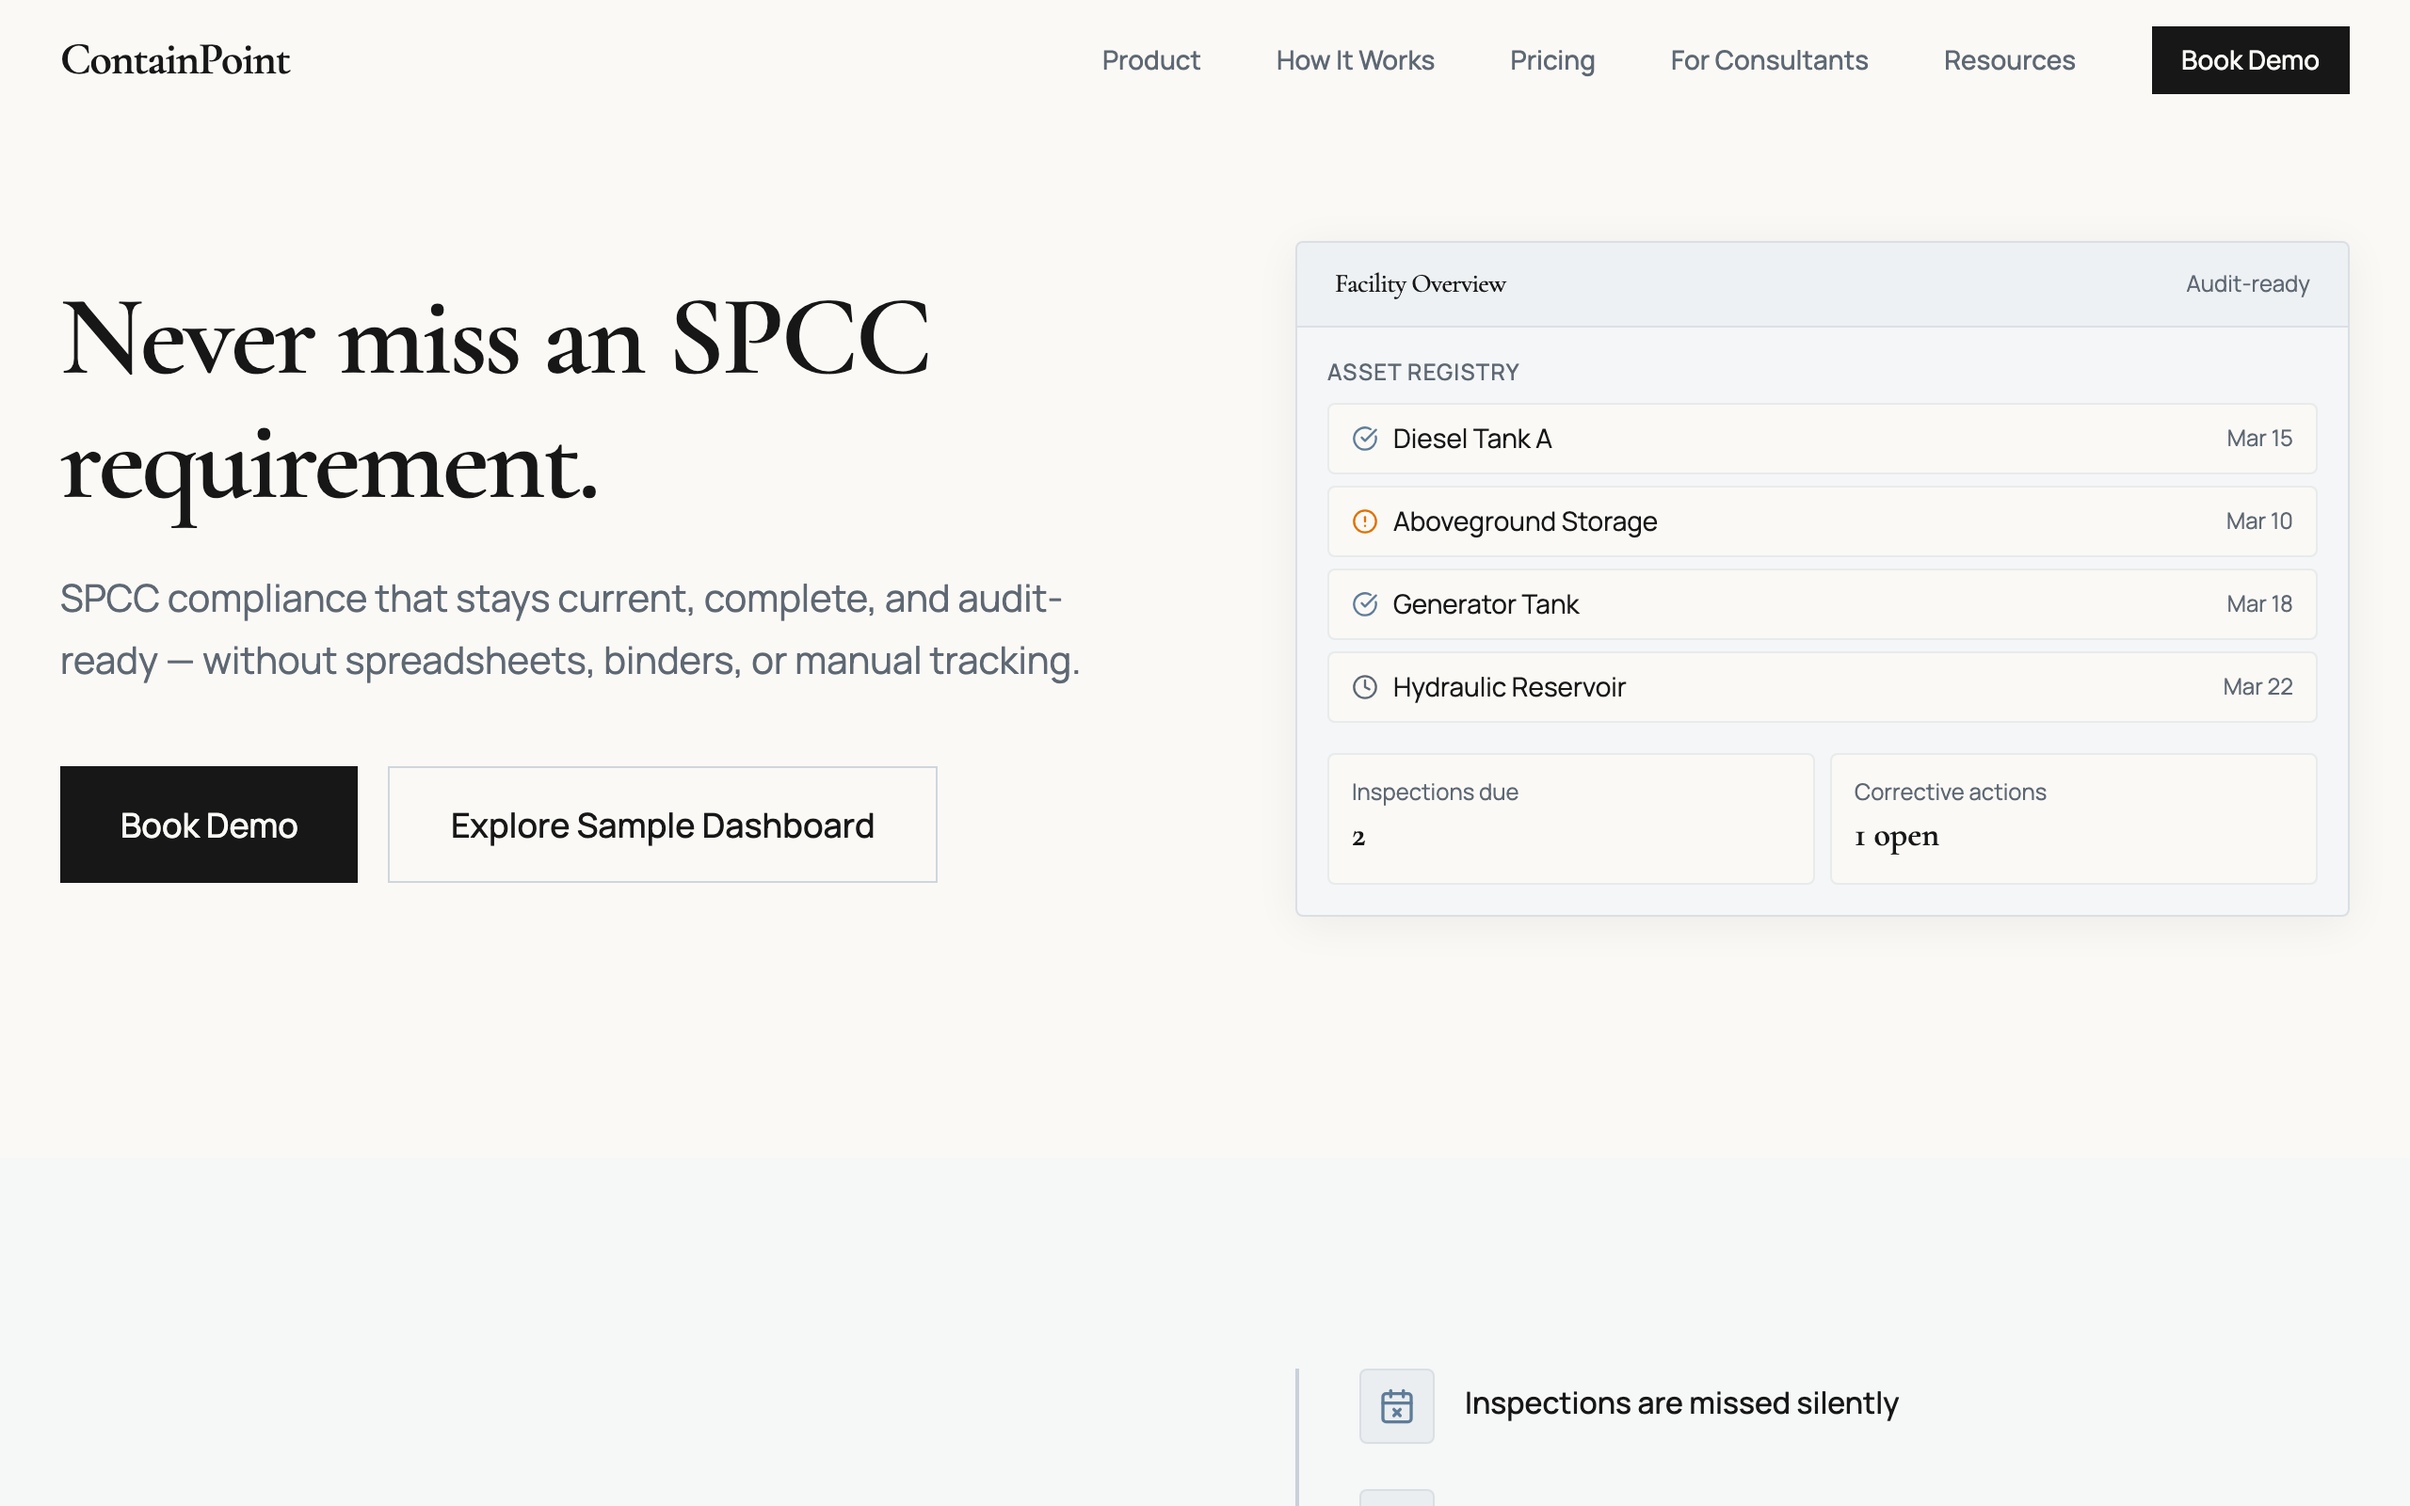
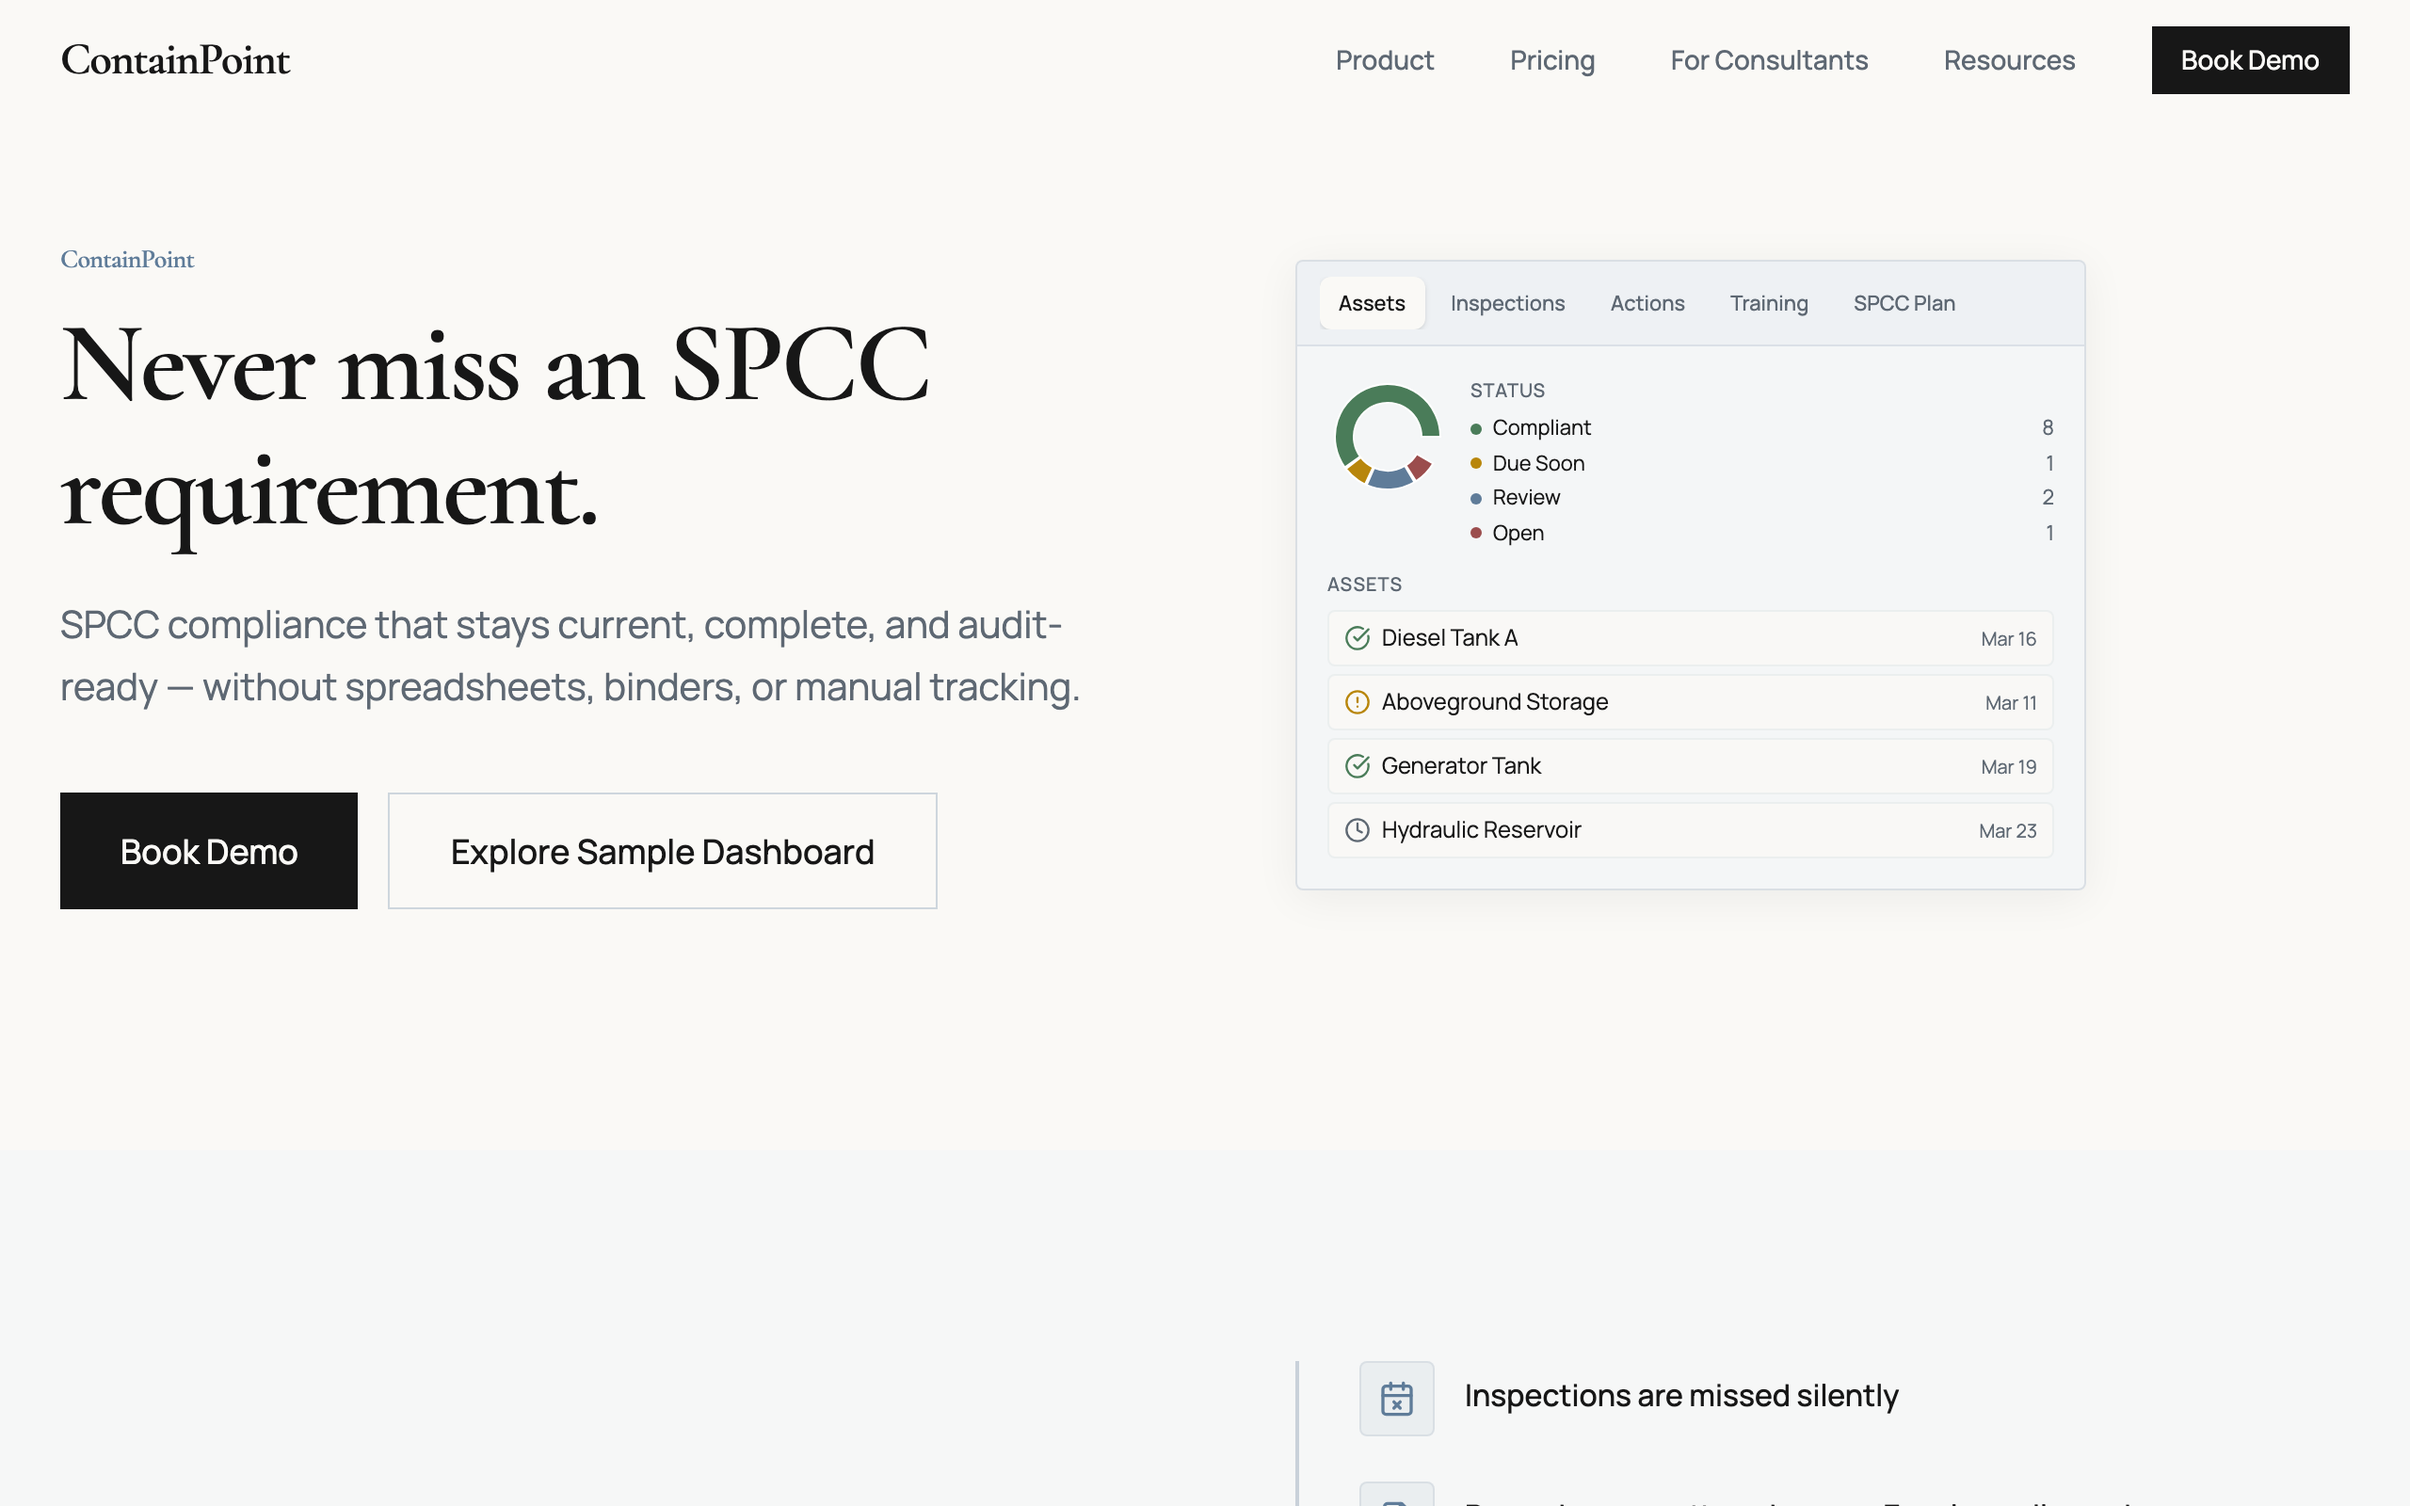
docs: refresh marketing README and screenshots

diff --git a/README.md b/README.md
@@ -1,140 +1,149 @@
-# ContainPoint
+# ContainPoint marketing site
 
 **SPCC compliance that stays current, complete, and audit-ready.**
 
-ContainPoint is a compliance infrastructure platform built for facilities managing SPCC (Spill Prevention, Control, and Countermeasure) obligations. It replaces spreadsheets, binders, and fragmented workflows with a single system that tracks inspections, manages corrective actions, and generates audit-ready documentation instantly.
+Public marketing site for ContainPoint: positioning, interactive product previews, resources, and lead capture. Built with **Vite** and **React 18**. The production **customer app** lives in `/dashboard`; **internal operator tools** in `/admin`.
 
-![ContainPoint Hero](docs/screenshots/hero.png)
-
----
-
-## Overview
-
-Most facilities don't struggle with understanding SPCC rules—they struggle with execution. Inspections are missed silently. Records scatter across Excel, email, and paper. Corrective actions fall through the cracks. Audits become multi-day scrambles.
-
-ContainPoint makes compliance operational:
-
-- **Asset Registry** — Track every tank, container, oil type, and containment detail in one structured system
-- **Inspection Engine** — Run recurring inspections with mobile-friendly execution, timestamps, photos, and signatures
-- **Corrective Actions** — Convert failed checks into owned, trackable tasks with deadlines and closure evidence
-- **Audit Pack** — Export inspection records, corrective actions, training history, and compliance documentation instantly
-- **Consultant Console** — Manage multiple client sites, standardize templates, and deliver professional audit-ready outputs
+![ContainPoint hero](docs/screenshots/hero.png)
 
 ---
 
-## Product Preview
+## What’s on this site
 
-### Sample Dashboard
-
-Explore a live preview of ContainPoint with sample facility data. See facility status, inspections, corrective actions, and audit readiness in action. Click any row to drill down, or open the full dashboard for deeper exploration.
-
-![Sample Dashboard](docs/screenshots/sample-dashboard.png)
-
-### How It Works
-
-A connected operating system—not a checklist. Track assets, inspections, findings, corrective actions, and audit evidence in one continuous workflow.
-
-![How It Works](docs/screenshots/how-it-works.png)
-
-### Product Modules
-
-A complete system of record for SPCC compliance, built for facilities and consultants.
-
-![Product Overview](docs/screenshots/product.png)
+| Route | Purpose |
+|-------|---------|
+| `/` | Hero, value props, embedded **sample dashboard** mock (interactive audit preview) |
+| `/product` | Deep-dive **How it works** flow and **product modules** grid |
+| `/pricing` | Plans and packaging |
+| `/for-consultants` | Consultant positioning |
+| `/book-demo` | Demo request |
+| `/resources` | Article index (SEO content) |
+| `/resources/:slug` | Individual articles |
+| `/pledge` | Pledge / commitment landing |
+| `/terms`, `/privacy` | Legal |
 
 ---
 
-## Built For
+## Product preview (screenshots)
 
-- **Regulated facilities** — Trucking depots, manufacturing plants, equipment yards, farms, data centers
-- **Environmental consultants** — Multi-site management, standardized templates, client-ready exports
-- **Compliance teams** — Structured inspection tracking, corrective action management, audit readiness
+The **sample dashboard** block on the home page demonstrates inspection status, corrective actions, and audit-oriented UI with dynamic sample data.
 
----
+![Sample dashboard section](docs/screenshots/sample-dashboard.png)
 
-## Tech Stack
+**How it works** and **product modules** are captured from `/product` (connected workflow narrative + capability overview).
 
-- **React 18** + TypeScript
-- **Vite** for build tooling
-- **Tailwind CSS v4** for styling
-- **Framer Motion** for animations
-- **Recharts** for charts and data visualization
-- **React PDF** for audit pack export
+![How it works](docs/screenshots/how-it-works.png)
+
+![Product modules](docs/screenshots/product.png)
 
 ---
 
-## Getting Started
+## Built for
+
+- **Regulated facilities** — Trucking depots, manufacturing, yards, farms, data centers, and similar oil storage sites
+- **Environmental consultants** — Multi-site oversight and standardized deliverables
+- **Compliance teams** — Inspection discipline, corrective actions, and audit readiness
+
+---
+
+## Tech stack
+
+- **React 18** + TypeScript  
+- **Vite**  
+- **React Router** v7  
+- **Tailwind CSS** v4 (`@tailwindcss/vite`)  
+- **Framer Motion**  
+- **Recharts** (charts in mocks)  
+- **React PDF** (`@react-pdf/renderer`) for downloadable audit pack demos  
+- **Vercel Analytics** (`@vercel/analytics`)
+
+---
+
+## Getting started
 
 ### Prerequisites
 
-- Node.js 18+
-- npm or yarn
+- Node.js **18+**
+- npm
 
-### Install
+### Install and develop
 
 ```bash
 npm install
-```
-
-### Development
-
-```bash
 npm run dev
 ```
 
-Open [http://localhost:5173](http://localhost:5173) in your browser.
+Open [http://localhost:5173](http://localhost:5173).
 
-### Build
-
-```bash
-npm run build
-```
-
-### Preview Production Build
+### Build and preview
 
 ```bash
-npm run preview
+npm run build    # runs sitemap generation + tsc + Vite build
+npm run preview  # serve production build locally
 ```
 
-### Capture Screenshots
+### Sitemap
 
-Regenerate README screenshots after design changes:
+```bash
+npm run generate:sitemap
+```
+
+Writes `public/sitemap.xml` from routes and article metadata.
+
+---
+
+## Regenerate README screenshots
+
+The hero and homepage **sample-audit** crop come from `/`. **How it works** and **product** sections are captured from **`/product`** (those sections are not mounted on the home page).
 
 ```bash
 npm run screenshots
 ```
 
----
-
-## Deploy to Vercel
-
-1. Push to GitHub and connect the repo in [Vercel](https://vercel.com).
-2. Add the environment variable:
-   - `VITE_FORMSPREE_FORM_ID` — Your Formspree form ID from [formspree.io](https://formspree.io)
-3. Deploy. Vercel will detect Vite and build automatically.
+This runs a production build, serves **`vite preview` on port 4173**, and saves PNGs under **`docs/screenshots/`** via Playwright (`scripts/capture-screenshots.mjs`).
 
 ---
 
-## Project Structure
+## Deploy (Vercel)
+
+1. Connect the repository and set **Root Directory** to `site` if the repo is a monorepo.  
+2. Framework preset: **Vite**.  
+3. Environment variable:  
+   - **`VITE_FORMSPREE_FORM_ID`** — Formspree form ID for contact/demo forms, if used.
+
+---
+
+## Project structure
 
 ```
 src/
-├── components/          # React components
-│   ├── dashboard/       # Interactive dashboard (sample audit, tabs, PDF)
-│   ├── mocks/           # Hero preview mock
-│   ├── sections/        # Landing page sections
-│   └── ui/              # Shared UI primitives
-├── data/                # Sample dashboard data (dynamic dates)
-├── lib/                 # Utilities (date helpers, cn)
+├── App.tsx              # Routes
+├── pages/               # Page components (Home, Product, Pricing, Legal, Blog, …)
+├── components/
+│   ├── sections/        # Marketing sections (Hero, SampleAudit, HowItWorks, …)
+│   ├── dashboard/       # Interactive dashboard mock
+│   └── ui/
+├── data/                # Sample / article data
+├── config/              # Nav and site config
 └── main.tsx
+scripts/
+├── capture-screenshots.mjs
+└── generate-sitemap.ts
+public/
+└── sitemap.xml          # generated at build time
+docs/
+└── screenshots/         # README / marketing captures
 ```
+
+---
+
+## Related repos in this workspace
+
+- **`/dashboard`** — Authenticated **ContainPoint** application (Next.js, Prisma, inspections, plan, exports, assistant).  
+- **`/admin`** — **Internal** staff console (organizations, facilities, users, audit log, bridge into dashboard).
 
 ---
 
 ## License
 
 Proprietary. All rights reserved.
-
----
-
-**ContainPoint** — Never miss an SPCC requirement.
